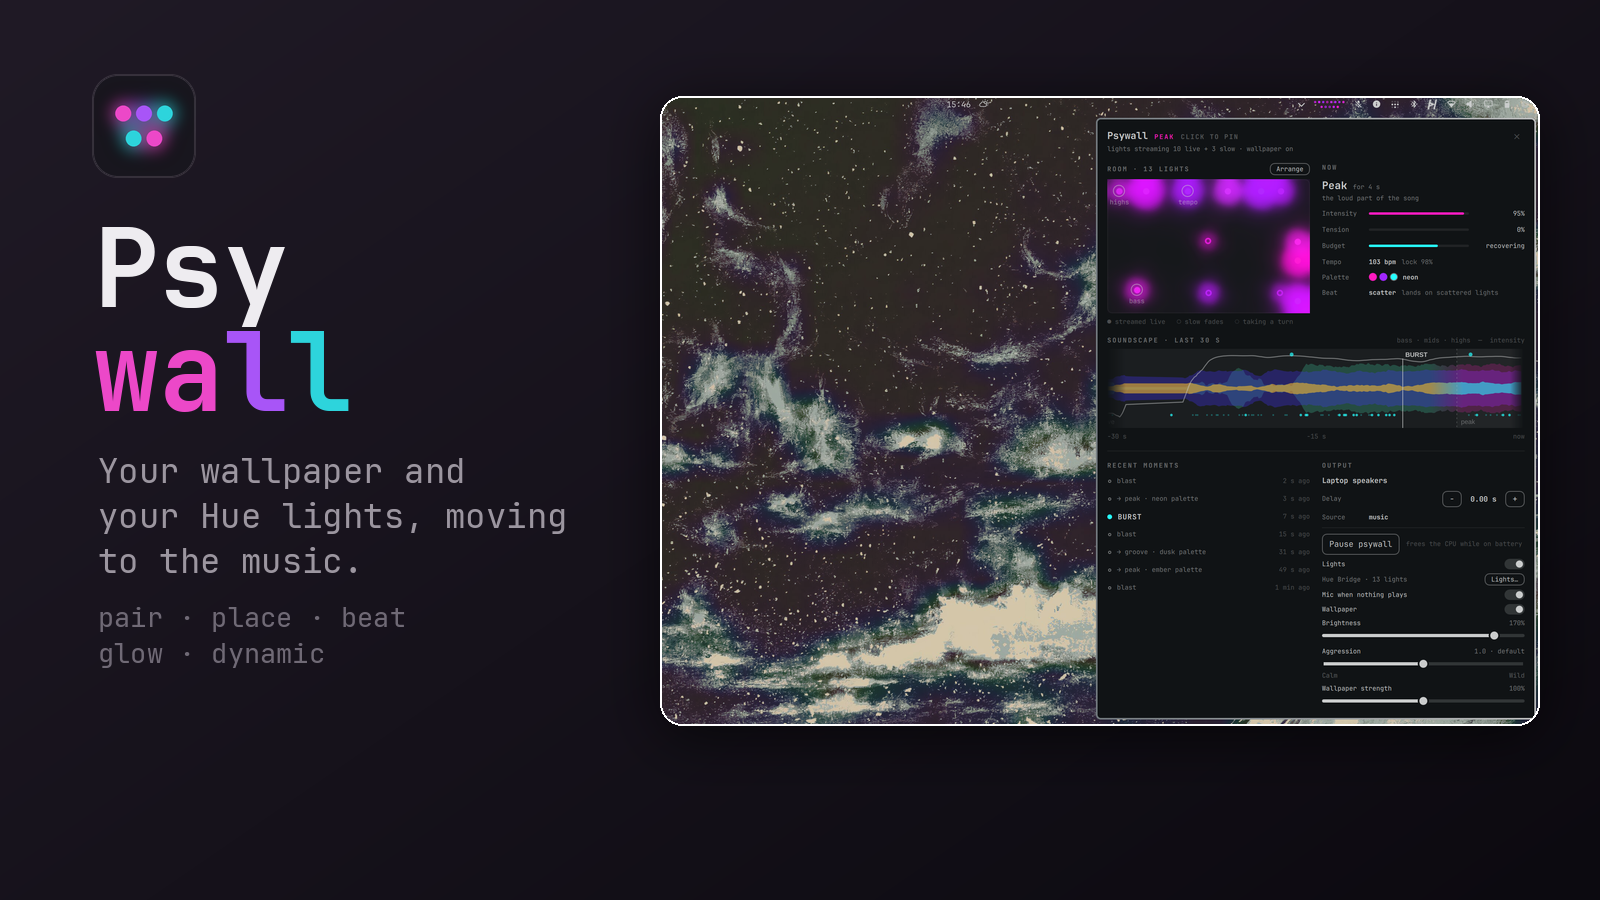
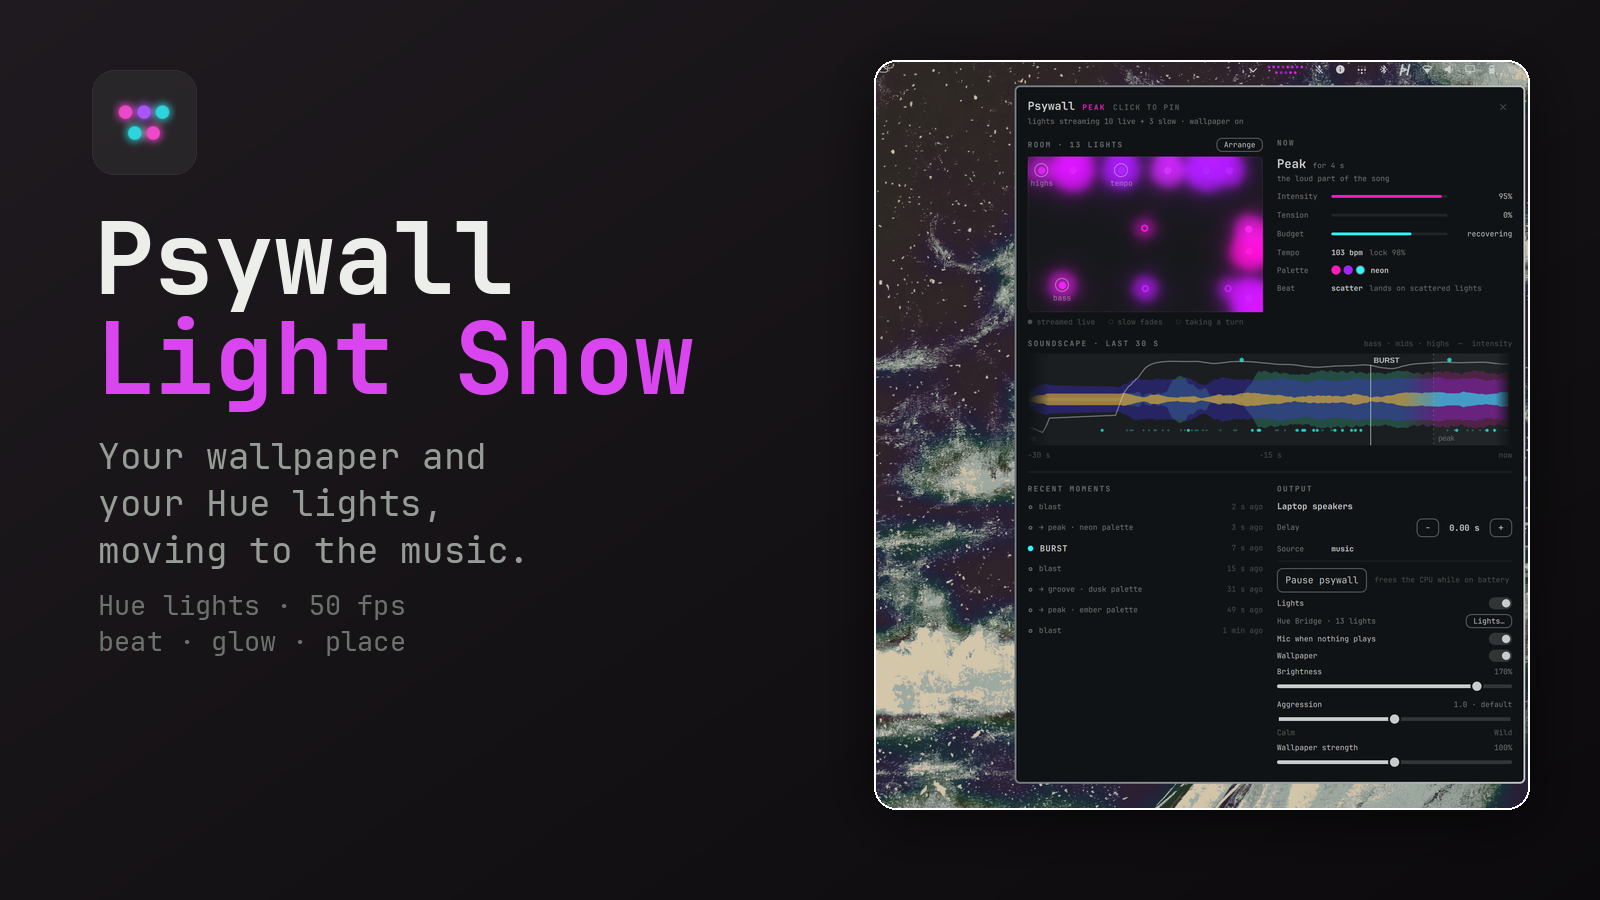
Marketplace card in the Spectrum style; one-command install
"Psywall Light Show" card from the house-style generator (tools/make-preview.sh),
with a tighter shot so the pane is readable over the tinted wallpaper. The
README installs with a single omarchy plugin add --enable.

Claude-Session: https://claude.ai/code/session_011yuharNVvJyem6ptcNU7a9

Changed region(s): [[0.0625, 0.0622, 0.9688, 0.9022], [0.0625, 0.4978, 0.375, 0.7467], [0.0625, 0.1244, 0.125, 0.1867]]

diff --git a/tools/make_preview.py b/tools/make_preview.py
@@ -1,35 +1,55 @@
 #!/usr/bin/env python3
-"""Builds preview.png, the 1600x900 marketplace card, in the style of the
-author's other cards: icon tile, two-line name, tagline and feature line on
-the left, a real screenshot on the right.
+"""Build preview.png, the 1600x900 marketplace card, in the house style of the owner's listings
+(Omapager Pro, Pear Messages, Pear Passwords): dark gradient, icon tile, two-line name (second
+word in the accent colour), a monospace tagline and a dim feature line on the left, and the
+window screenshot - framed, with wallpaper around it - on the right.
 
-The text block sits high on purpose: the marketplace's mini-preview tile crops
-the bottom 10-20% of the card.
+The text block sits HIGH on purpose: the marketplace's mini-preview tile crops the bottom 10-20%
+of the card, so nothing that matters may go below ~75% of the height. The script refuses to
+write a card whose text runs past that.
 
-Run from the repo root:  python3 tools/make_preview.py  (needs docs/window.png)
+  make_preview.py --shot window.png --icon icon.svg|icon.png \\
+      --name "Pear" --name2 "Messages" --accent "#b9d25a" \\
+      --tagline "Every bubble, blue|or green, in a native|Omarchy window." \\
+      --features "photos · reactions|effects · bluetooth" [--out preview.png]
+
+`|` separates lines. Keep each tagline line to ~22 characters and use 2-3 lines; features are
+2 lines of 2 keywords joined by " · ". Needs Pillow and ImageMagick (for SVG icons).
 """
+import argparse
+import subprocess
+import sys
+import tempfile
+
 from PIL import Image, ImageDraw, ImageFilter, ImageFont
 
 W, H = 1600, 900
-SUNSET = [(236, 72, 200), (168, 85, 247), (45, 212, 220)]
-WHITE = (238, 236, 240)
-DIM = (156, 150, 160)
-FAINT = (112, 106, 118)
+WHITE = (236, 238, 234)
+DIM = (150, 156, 150)
+FAINT = (108, 114, 108)
 FONT = "/usr/share/fonts/TTF/JetBrainsMonoNerdFont-{}.ttf"
+TEXT_LIMIT = 0.75   # nothing below this fraction of H: the tile crops it
 
 
 def font(size, weight="Regular"):
     return ImageFont.truetype(FONT.format(weight), size)
 
 
-def background():
+def hexcolor(s):
+    s = s.lstrip("#")
+    return tuple(int(s[i:i + 2], 16) for i in (0, 2, 4))
+
+
+def background(accent):
+    # near-black, lighter toward the top left, faintly tinted toward the accent
     bg = Image.new("RGB", (W, H))
     px = bg.load()
+    tint = [c / 255 for c in accent]
     for y in range(H):
         for x in range(W):
             t = x / W * 0.55 + y / H * 0.45
-            # a violet-black, lighter toward the top left
-            px[x, y] = (max(int(32 - 20 * t), 9), max(int(26 - 16 * t), 8), max(int(38 - 22 * t), 11))
+            base = 30 - 18 * t
+            px[x, y] = tuple(max(int(base * (0.82 + 0.25 * k)), 8) for k in tint)
     return bg
 
 
@@ -41,62 +61,83 @@ def rounded(img, radius):
     return out
 
 
-def icon(size=104):
-    """The bar widget itself, large: a room of lights in two rows."""
-    s = 4
-    big = Image.new("RGBA", (size * s, size * s), (0, 0, 0, 0))
-    d = ImageDraw.Draw(big)
-    d.rounded_rectangle([0, 0, size * s - 1, size * s - 1], 26 * s, fill=(24, 22, 30, 255),
-                        outline=(255, 255, 255, 30), width=2 * s)
-    glow = Image.new("RGBA", big.size, (0, 0, 0, 0))
-    g = ImageDraw.Draw(glow)
-    dots = [(0.3, 0.38, 0), (0.5, 0.38, 1), (0.7, 0.38, 2), (0.4, 0.62, 2), (0.6, 0.62, 0)]
-    for x, y, c in dots:
-        r = 0.11 * size * s
-        g.ellipse([x * size * s - r * 1.6, y * size * s - r * 1.6, x * size * s + r * 1.6, y * size * s + r * 1.6],
-                  fill=SUNSET[c] + (150,))
-    big.alpha_composite(glow.filter(ImageFilter.GaussianBlur(9 * s)))
-    d = ImageDraw.Draw(big)
-    for x, y, c in dots:
-        r = 0.075 * size * s
-        d.ellipse([x * size * s - r, y * size * s - r, x * size * s + r, y * size * s + r], fill=SUNSET[c] + (255,))
-    return big.resize((size, size), Image.LANCZOS)
+def load_icon(path, size):
+    if path.lower().endswith(".svg"):
+        tmp = tempfile.mkdtemp()
+        subprocess.run(["magick", "-background", "none", path, "-resize", f"{size}x{size}",
+                        f"{tmp}/icon.png"], check=True)
+        path = f"{tmp}/icon.png"
+    icon = Image.open(path).convert("RGBA")
+    icon.thumbnail((size, size), Image.LANCZOS)
+    return icon
 
 
 def main():
-    card = background().convert("RGBA")
+    ap = argparse.ArgumentParser()
+    ap.add_argument("--shot", required=True, help="window screenshot, wallpaper padding included")
+    ap.add_argument("--icon", required=True)
+    ap.add_argument("--name", required=True)
+    ap.add_argument("--name2", required=True)
+    ap.add_argument("--accent", required=True, help="hex colour of the second name line")
+    ap.add_argument("--tagline", required=True)
+    ap.add_argument("--features", required=True)
+    ap.add_argument("--shot-width", type=int, default=850)
+    ap.add_argument("--out", default="preview.png")
+    a = ap.parse_args()
+    accent = hexcolor(a.accent)
 
-    win = Image.open("docs/window.png").convert("RGB")
-    ww = 880
+    card = background(accent).convert("RGBA")
+
+    # the window: right side, a little above centre (the bottom of the card gets cropped)
+    win = Image.open(a.shot).convert("RGB")
+    ww = a.shot_width
     wh = round(win.height * ww / win.width)
+    if wh > H - 150:
+        wh = H - 150
+        ww = round(win.width * wh / win.height)
     win = rounded(win.resize((ww, wh), Image.LANCZOS), 22)
-    wx, wy = W - ww - 60, 96
+    wx, wy = W - ww - 70, max(60, min(92, (H - wh) // 2 - 40))
     shadow = Image.new("RGBA", (ww + 120, wh + 120), (0, 0, 0, 0))
-    ImageDraw.Draw(shadow).rounded_rectangle([60, 70, ww + 60, wh + 70], 26, fill=(0, 0, 0, 160))
+    ImageDraw.Draw(shadow).rounded_rectangle([60, 70, ww + 60, wh + 70], 26, fill=(0, 0, 0, 150))
     card.alpha_composite(shadow.filter(ImageFilter.GaussianBlur(28)), (wx - 60, wy - 60))
     card.alpha_composite(win, (wx, wy))
-    ImageDraw.Draw(card).rounded_rectangle([wx, wy, wx + ww - 1, wy + wh - 1], 22, outline=(255, 255, 255, 46), width=2)
+    ImageDraw.Draw(card).rounded_rectangle([wx, wy, wx + ww - 1, wy + wh - 1], 22,
+                                           outline=(255, 255, 255, 46), width=2)
 
-    card.alpha_composite(icon(), (92, 74))
-
+    # icon tile
+    tile = 104
     d = ImageDraw.Draw(card)
+    # a dark tile a shade above the background (Omapager Pro's bell tile). Drawn on an
+    # overlay: ImageDraw on RGBA replaces pixels, so a translucent fill would come out white.
+    over = Image.new("RGBA", card.size, (0, 0, 0, 0))
+    ImageDraw.Draw(over).rounded_rectangle([92, 70, 92 + tile, 70 + tile], 22,
+                                           fill=(255, 255, 255, 14), outline=(255, 255, 255, 22), width=1)
+    card.alpha_composite(over)
+    icon = load_icon(a.icon, 64)
+    card.alpha_composite(icon, (92 + (tile - icon.width) // 2, 70 + (tile - icon.height) // 2))
+
     x = 98
-    d.text((x - 4, 196), "Psy", font=font(108, "Bold"), fill=WHITE)
-    # "wall" in the sunset palette, letter by letter
-    cx = x - 4
-    for k, ch in enumerate("wall"):
-        d.text((cx, 300), ch, font=font(108, "Bold"), fill=SUNSET[min(2, k * 2 // 3)])
-        cx += d.textlength(ch, font=font(108, "Bold"))
-    y = 448
-    for line in ("Your wallpaper and", "your Hue lights, moving", "to the music."):
-        d.text((x, y), line, font=font(34), fill=DIM)
-        y += 45
-    y += 16
-    for line in ("pair · place · beat", "glow · dynamic"):
+    # the name may not run into the window: shrink from 100 px until both lines fit
+    room = wx - 40 - (x - 4)
+    size = 100
+    while size > 60 and max(d.textlength(t, font=font(size, "Bold")) for t in (a.name, a.name2)) > room:
+        size -= 2
+    d.text((x - 4, 192 + (100 - size)), a.name, font=font(size, "Bold"), fill=WHITE)
+    d.text((x - 4, 192 + (100 - size) + size), a.name2, font=font(size, "Bold"), fill=accent)
+    y = 432
+    for line in a.tagline.split("|"):
+        d.text((x, y), line, font=font(36), fill=DIM)
+        y += 47
+    y += 14
+    for line in a.features.split("|"):
         d.text((x, y), line, font=font(27), fill=FAINT)
         y += 36
-    card.convert("RGB").save("preview.png", optimize=True)
-    print("preview.png", card.size, "text ends at y =", y, f"({y / H:.0%} of the height)")
+
+    if y > H * TEXT_LIMIT:
+        sys.exit(f"text ends at y={y} ({y / H:.0%}); the tile crops below {TEXT_LIMIT:.0%}. "
+                 "Shorten the tagline or features.")
+    card.convert("RGB").save(a.out, optimize=True)
+    print(a.out, card.size, "text ends at y =", y, f"({y / H:.0%} of the height)")
 
 
 if __name__ == "__main__":

diff --git a/README.md b/README.md
@@ -31,25 +31,20 @@ Your wallpaper and your Philips Hue lights, moving to whatever's playing.
 
 ## Install
 
-### 1. Install
-
-From the [Omarchy Plugin Marketplace](https://omarchyplugins.com/), or:
-
 ```bash
-omarchy plugin add https://github.com/dragosol/omarchy-psywall.git
+omarchy plugin add https://github.com/dragosol/omarchy-psywall.git --enable
 ```
 
-### 2. Enable
+Omarchy installs third-party plugins disabled unless `--enable` is provided.
+Review the repository before enabling it: shell plugins run unsandboxed with
+your user permissions.
 
-```bash
-omarchy-shell shell rescanPlugins
-omarchy plugin enable io.github.dragosol.psywall --section right
-omarchy restart shell
-```
+That is the whole installation: everything Psywall uses already ships with
+Omarchy. The wallpaper effect starts with the next song. Add **Psywall** to
+the bar from the bar's widget settings if it is not placed for you (it
+defaults to the right section).
 
-The wallpaper effect starts with the next song.
-
-### 3. Connect your Hue lights (optional)
+## Connect your Hue lights (optional)
 
 Click the Psywall dots in the bar, then **Connect Hue lights**.
 
